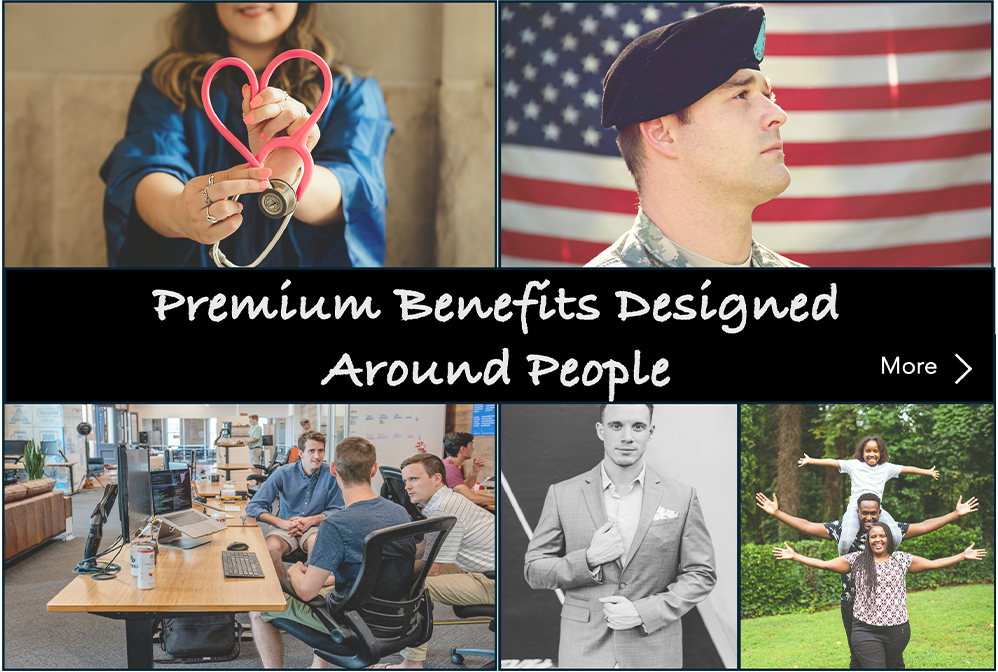
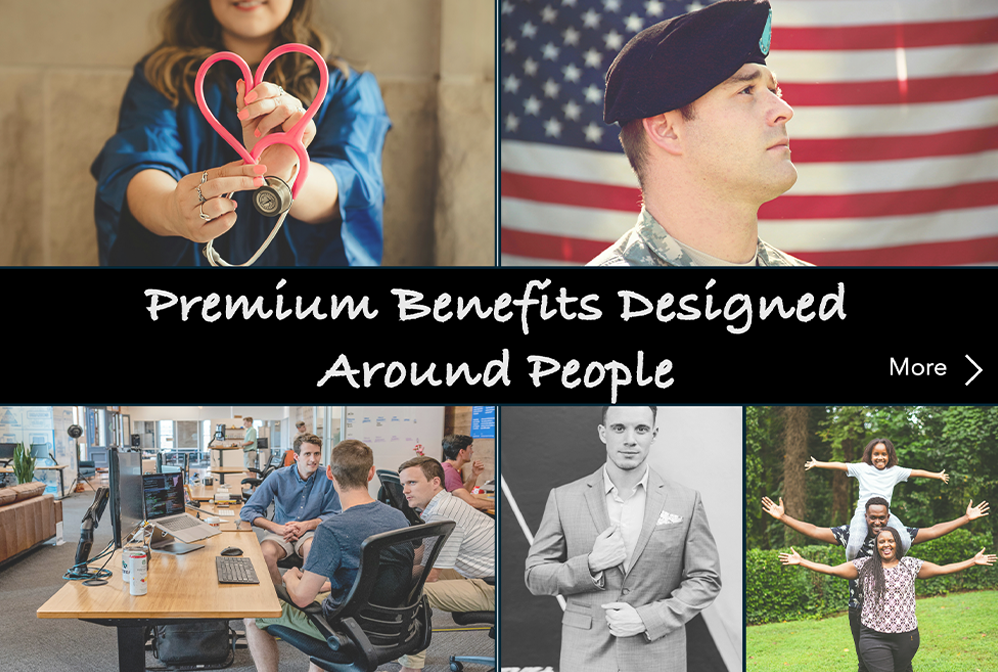
changes in Ui

diff --git a/assets/css/main.css b/assets/css/main.css
@@ -168,6 +168,10 @@ video#popupVideo{
 video#popupVideo1 {
   width: 100%;
 }
+
+.fontFamily{
+  font-family: myFirstFont;
+}
 /*--------------------------------------------------------------
 # Global Header
 --------------------------------------------------------------*/

diff --git a/index.php b/index.php
@@ -555,7 +555,7 @@
 
 <section style=" background: #000;">
     <div class="container">
-        <p class="sliderHeading text-white text-center mb-5">  NEW WORKER’S BENEFITS
+        <p class="sliderHeading text-white text-center mb-5">  <span class="yellowTextColor">NEW</span> WORKER’S BENEFITS
         </p>
       
 
@@ -627,9 +627,9 @@
             </div>
 
             <div class="col-lg-8">
-                <p class="sliderHeading2 text-white text-center">Workforce Prosperity</p>
+                <p class="sliderHeading2 text-white text-center pt-4">Workforce Prosperity</p>
 
-                <p class="sliderSubHeading text-white text-center">Benefits Solutions From Founders to Contractors
+                <p class="sliderSubHeading text-white text-center pb-4">Benefits Solutions From Founders to Contractors
                 </p>
 
                 <div class="d-flex mt-2 justify-content-center gap-3 mb-4">
@@ -755,7 +755,7 @@
 
                 <p class="sectionHeading text-white text-center mb-5 ">Unique Bundled Solutions Tailored to Fit Every Business Needs
                 </p>
-                <p class="slicksliderHeading text-white text-center m-auto mb-3" style="width: fit-content;">Workforce Benefits <span style="color:#ffc000;">plus</span> Digital Family Office Kit
+                <p class="slicksliderHeading text-white text-center m-auto mb-3" style="width: fit-content;">Workforce Benefits <span class="fontFamily" style="color:#ffc000; ">plus</span> Digital Family Office Kit
                 </p>
                 <p class="sliderSubHeading text-white text-center mb-5">From Start to Success.  Solutions for All Lifestages – Differentiation Through Customized Bundles.
 
@@ -794,7 +794,7 @@
 
 
                 <div class="d-flex justify-content-center mt-3">
-                    <span class="yellowText-1">Plus</span>
+                    <span class="yellowText-1 fontFamily">Plus</span>
                 </div>
 
                 <p class="sliderHeading2 text-white text-center mt-2">Digital Family Office sub-Kit
